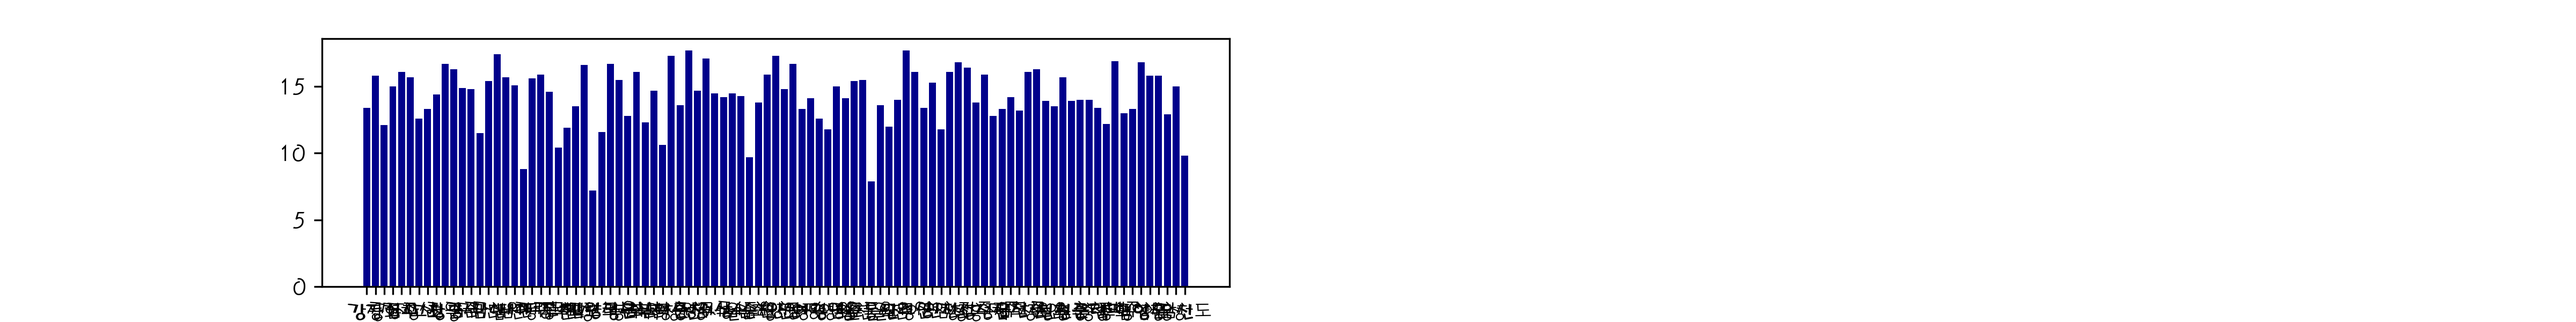
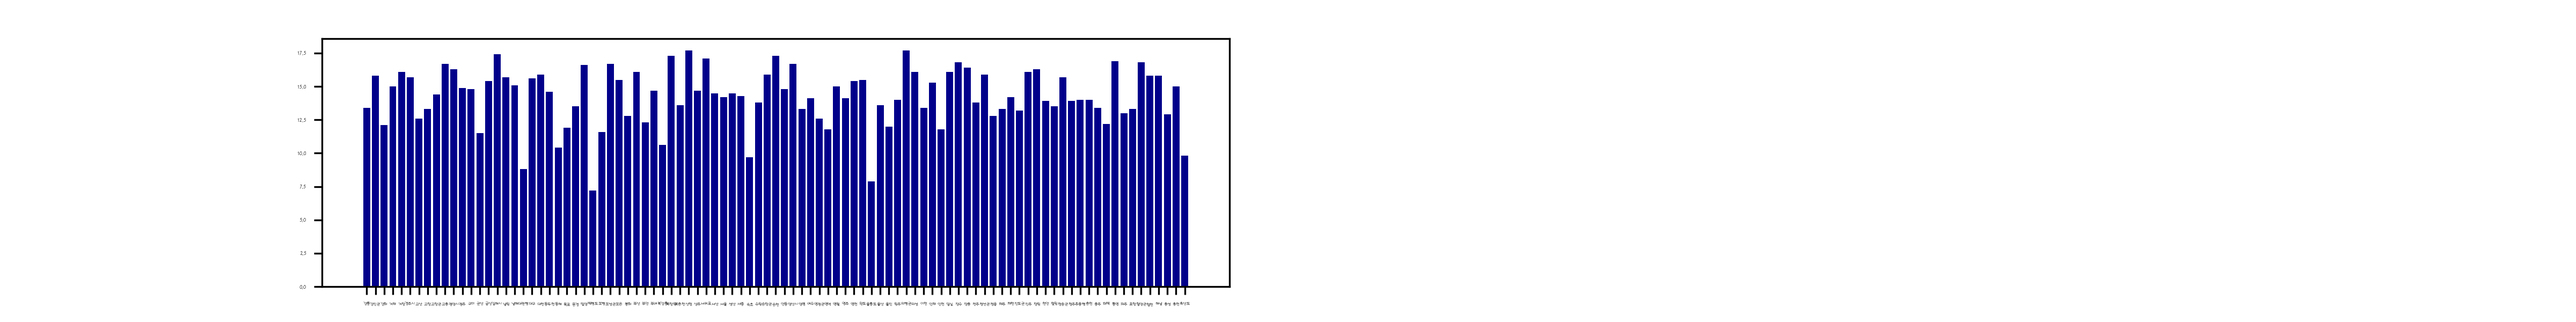
first commit

Changed region(s): [[0.125, 0.93, 0.4688, 1.0]]

diff --git a/hyomin_django/quickstart/views.py b/hyomin_django/quickstart/views.py
@@ -50,6 +50,7 @@ class MyKrWeatherViewSet(viewsets.ReadOnlyModelViewSet):
         serializer = self.get_serializer(qs, many=True)
 
 
+        # 그래프 그리기
         df1 = pd.DataFrame(serializer.data)
         df1.columns = ['id','area','diary','now_temp','pysical_temp','rain','snow','moisture']
         area = df1['area']
@@ -57,21 +58,24 @@ class MyKrWeatherViewSet(viewsets.ReadOnlyModelViewSet):
         area_index = range(len(df1['area']))
         font_name = font_manager.FontProperties(fname="C:\\Users\\Min\\Desktop\\python\\H2PORL.ttf").get_name() # Font 경로 재설정
         rc('font', family=font_name)
+        plt.rc('font', size=2)
         fig = plt.figure(figsize=(16, 2), dpi=100)
         ax1 = fig.add_subplot(1,2,1)
         ax1.bar(area_index , float_temp, align='center', color='darkblue')
         ax1.xaxis.set_ticks_position('bottom')
         ax1.yaxis.set_ticks_position('left')
         plt.xticks(area_index , area, rotation=0, fontsize='small')
+        
 
         # 그래프를 파일 저장
         fig = plt.gcf()
         fig.savefig('myfile.png', dpi=fig.dpi)
 
-
+        # 파일 읽어오기
         with open('myfile.png', "rb") as image_file:
             image_data = base64.b64encode(image_file.read()).decode('utf-8')
         ctx = {'image': image_data}
+        # 파일 리턴
         return render(request, 'C:\\rest_ful\\hyomin_django\\hyomin_django\\quickstart\\index.html', ctx)
         # return Response(serializer.data)
     
